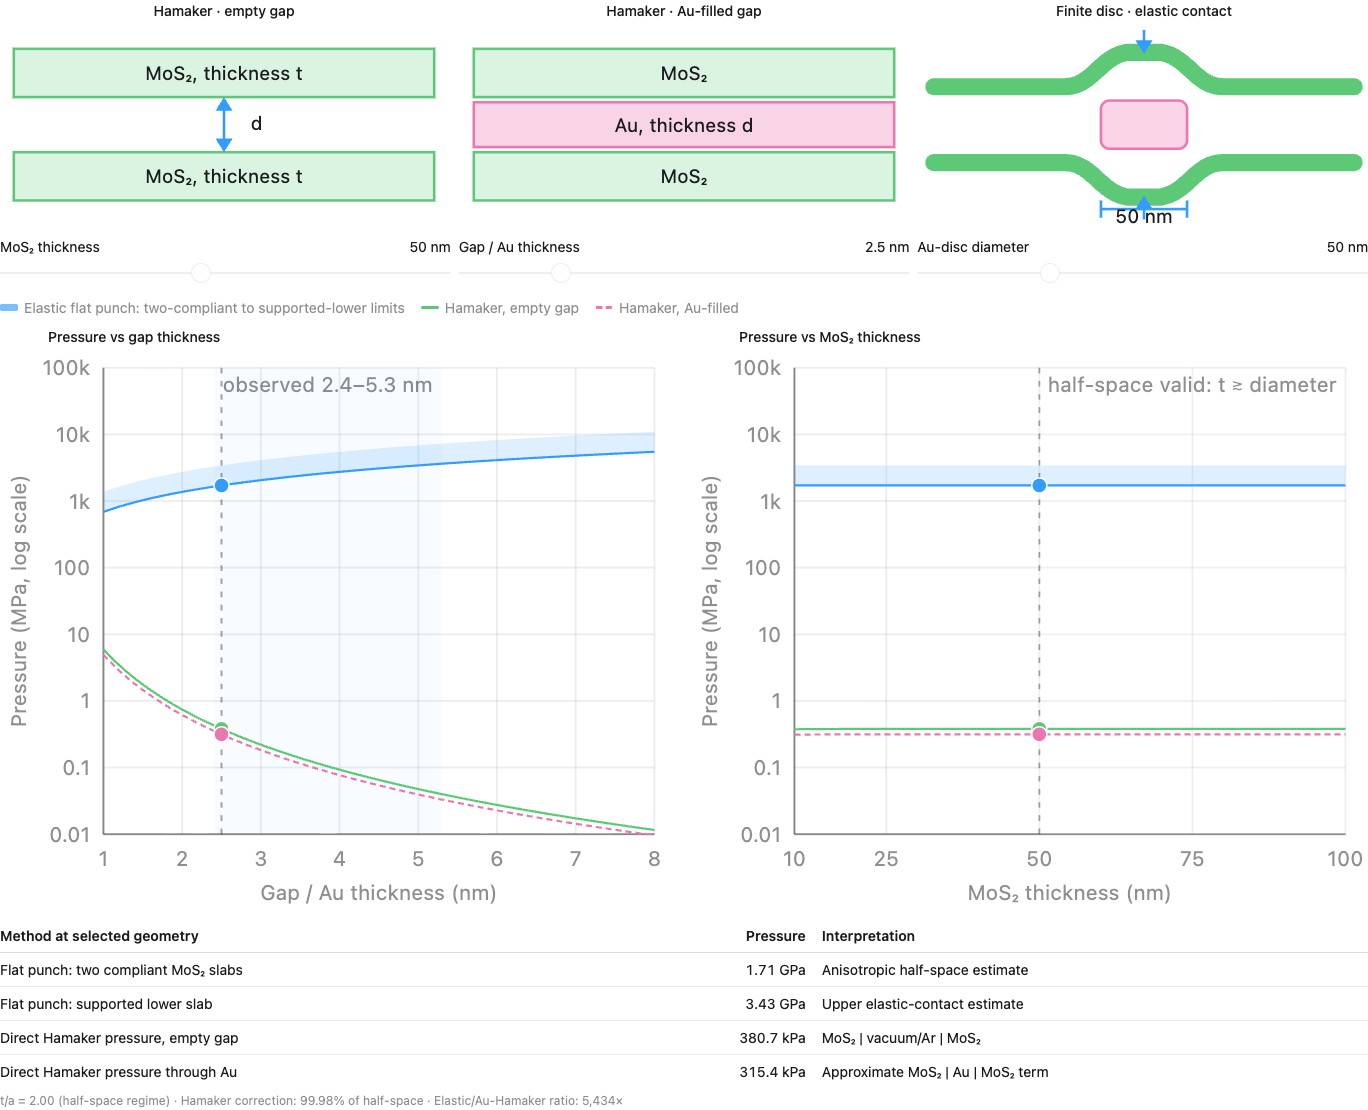
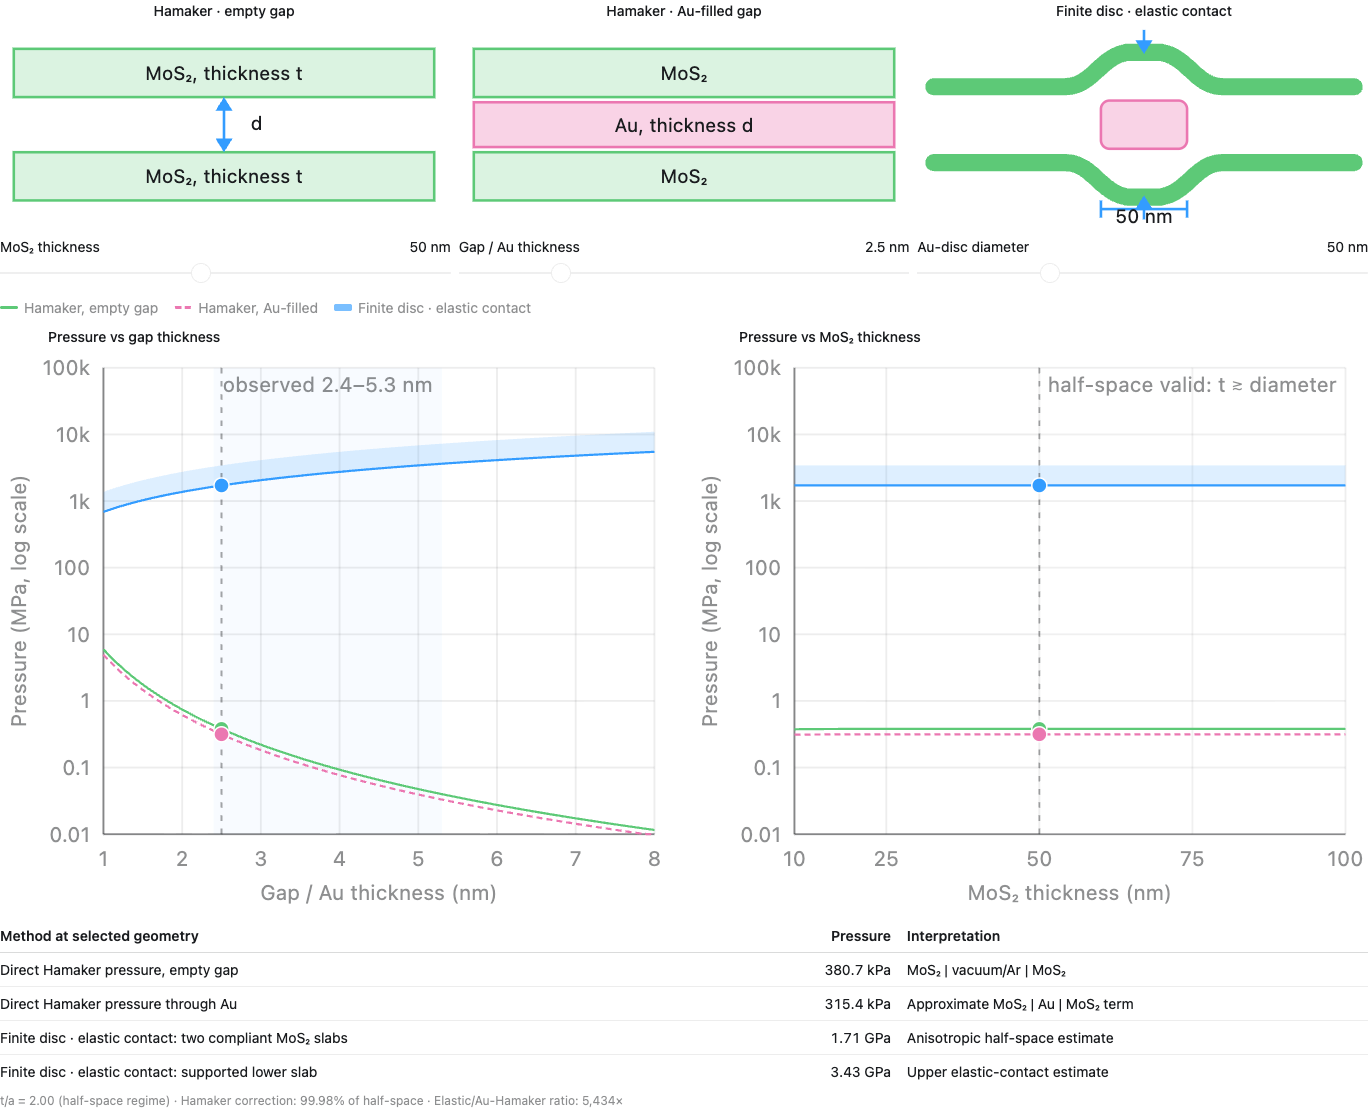
Align confinement model plot order

diff --git a/confinement-pressure-analysis/docs/index.html b/confinement-pressure-analysis/docs/index.html
@@ -933,9 +933,9 @@ html&gt;body{padding:0}&lt;/style&gt;
   &lt;/div&gt;
 
   &lt;div class=&quot;mpm-legend viz-row&quot; aria-label=&quot;Pressure models&quot;&gt;
-    &lt;span&gt;&lt;i class=&quot;mpm-swatch mpm-elastic&quot;&gt;&lt;/i&gt;Elastic flat punch: two-compliant to supported-lower limits&lt;/span&gt;
     &lt;span&gt;&lt;i class=&quot;mpm-swatch mpm-empty&quot;&gt;&lt;/i&gt;Hamaker, empty gap&lt;/span&gt;
     &lt;span&gt;&lt;i class=&quot;mpm-swatch mpm-au&quot;&gt;&lt;/i&gt;Hamaker, Au-filled&lt;/span&gt;
+    &lt;span&gt;&lt;i class=&quot;mpm-swatch mpm-elastic&quot;&gt;&lt;/i&gt;Finite disc · elastic contact&lt;/span&gt;
   &lt;/div&gt;
 
   &lt;div class=&quot;mpm-plots&quot;&gt;
@@ -943,7 +943,7 @@ html&gt;body{padding:0}&lt;/style&gt;
       &lt;div class=&quot;mpm-plot-label&quot;&gt;Pressure vs gap thickness&lt;/div&gt;
       &lt;svg id=&quot;mpm-gap-chart&quot; class=&quot;mpm-chart&quot; viewBox=&quot;0 0 360 300&quot; role=&quot;img&quot; aria-labelledby=&quot;mpm-gap-title mpm-gap-desc&quot;&gt;
         &lt;title id=&quot;mpm-gap-title&quot;&gt;Pressure as a function of gap or gold thickness&lt;/title&gt;
-        &lt;desc id=&quot;mpm-gap-desc&quot;&gt;Logarithmic comparison of elastic reaction stress, empty-gap Hamaker pressure, and gold-filled Hamaker pressure.&lt;/desc&gt;
+        &lt;desc id=&quot;mpm-gap-desc&quot;&gt;Logarithmic comparison of empty-gap Hamaker pressure, gold-filled Hamaker pressure, and finite-disc elastic reaction stress.&lt;/desc&gt;
       &lt;/svg&gt;
     &lt;/div&gt;
     &lt;div class=&quot;mpm-plot-wrap&quot;&gt;
@@ -961,10 +961,10 @@ html&gt;body{padding:0}&lt;/style&gt;
         &lt;tr&gt;&lt;th&gt;Method at selected geometry&lt;/th&gt;&lt;th class=&quot;text-end&quot;&gt;Pressure&lt;/th&gt;&lt;th&gt;Interpretation&lt;/th&gt;&lt;/tr&gt;
       &lt;/thead&gt;
       &lt;tbody&gt;
-        &lt;tr&gt;&lt;td&gt;Flat punch: two compliant MoS₂ slabs&lt;/td&gt;&lt;td id=&quot;mpm-p-elastic-two&quot; class=&quot;text-end text-nowrap&quot;&gt;&lt;/td&gt;&lt;td&gt;Anisotropic half-space estimate&lt;/td&gt;&lt;/tr&gt;
-        &lt;tr&gt;&lt;td&gt;Flat punch: supported lower slab&lt;/td&gt;&lt;td id=&quot;mpm-p-elastic-rigid&quot; class=&quot;text-end text-nowrap&quot;&gt;&lt;/td&gt;&lt;td&gt;Upper elastic-contact estimate&lt;/td&gt;&lt;/tr&gt;
         &lt;tr&gt;&lt;td&gt;Direct Hamaker pressure, empty gap&lt;/td&gt;&lt;td id=&quot;mpm-p-empty&quot; class=&quot;text-end text-nowrap&quot;&gt;&lt;/td&gt;&lt;td&gt;MoS₂ | vacuum/Ar | MoS₂&lt;/td&gt;&lt;/tr&gt;
         &lt;tr&gt;&lt;td&gt;Direct Hamaker pressure through Au&lt;/td&gt;&lt;td id=&quot;mpm-p-au&quot; class=&quot;text-end text-nowrap&quot;&gt;&lt;/td&gt;&lt;td&gt;Approximate MoS₂ | Au | MoS₂ term&lt;/td&gt;&lt;/tr&gt;
+        &lt;tr&gt;&lt;td&gt;Finite disc · elastic contact: two compliant MoS₂ slabs&lt;/td&gt;&lt;td id=&quot;mpm-p-elastic-two&quot; class=&quot;text-end text-nowrap&quot;&gt;&lt;/td&gt;&lt;td&gt;Anisotropic half-space estimate&lt;/td&gt;&lt;/tr&gt;
+        &lt;tr&gt;&lt;td&gt;Finite disc · elastic contact: supported lower slab&lt;/td&gt;&lt;td id=&quot;mpm-p-elastic-rigid&quot; class=&quot;text-end text-nowrap&quot;&gt;&lt;/td&gt;&lt;td&gt;Upper elastic-contact estimate&lt;/td&gt;&lt;/tr&gt;
       &lt;/tbody&gt;
     &lt;/table&gt;
   &lt;/div&gt;
@@ -1319,9 +1319,9 @@ html&gt;body{padding:0}&lt;/style&gt;
     const group = makeSvg(&#x27;g&#x27;, { class: &#x27;mpm-dynamic&#x27; });
     const band = makeSvg(&#x27;path&#x27;, { class: &#x27;mpm-band&#x27; });
     const paths = {
-      elastic: makeSvg(&#x27;path&#x27;, { class: &#x27;mpm-line mpm-line-elastic&#x27; }),
       empty: makeSvg(&#x27;path&#x27;, { class: &#x27;mpm-line mpm-line-empty&#x27; }),
-      au: makeSvg(&#x27;path&#x27;, { class: &#x27;mpm-line mpm-line-au&#x27; })
+      au: makeSvg(&#x27;path&#x27;, { class: &#x27;mpm-line mpm-line-au&#x27; }),
+      elastic: makeSvg(&#x27;path&#x27;, { class: &#x27;mpm-line mpm-line-elastic&#x27; })
     };
     if (!isGap) {
       const validFrom = Math.max(xMin, Math.min(xMax, state.diameterNm));
@@ -1336,8 +1336,10 @@ html&gt;body{padding:0}&lt;/style&gt;
       const validityLabel = addText(group, &#x27;half-space valid: t ≳ diameter&#x27;, (validLeft + chartSpec.width - chartSpec.margin.right) / 2, chartSpec.margin.top + 13, &#x27;mpm-tick&#x27;);
       validityLabel.setAttribute(&#x27;aria-hidden&#x27;, &#x27;true&#x27;);
     }
+    group.appendChild(paths.empty);
+    group.appendChild(paths.au);
     group.appendChild(band);
-    Object.values(paths).forEach(path =&gt; group.appendChild(path));
+    group.appendChild(paths.elastic);
 
     const selected = pressures(state.gapNm, state.thicknessNm, state.diameterNm);
     const selectedPx = linearX(selectedX, xMin, xMax);
@@ -1347,9 +1349,9 @@ html&gt;body{padding:0}&lt;/style&gt;
       class: &#x27;mpm-guide&#x27;
     }));
     const markers = [
-      [&#x27;elastic&#x27;, selected.elastic, &#x27;mpm-marker-elastic&#x27;],
       [&#x27;empty&#x27;, selected.empty, &#x27;mpm-marker-empty&#x27;],
-      [&#x27;au&#x27;, selected.au, &#x27;mpm-marker-au&#x27;]
+      [&#x27;au&#x27;, selected.au, &#x27;mpm-marker-au&#x27;],
+      [&#x27;elastic&#x27;, selected.elastic, &#x27;mpm-marker-elastic&#x27;]
     ];
     markers.forEach(([, value, className]) =&gt; {
       group.appendChild(makeSvg(&#x27;circle&#x27;, {
